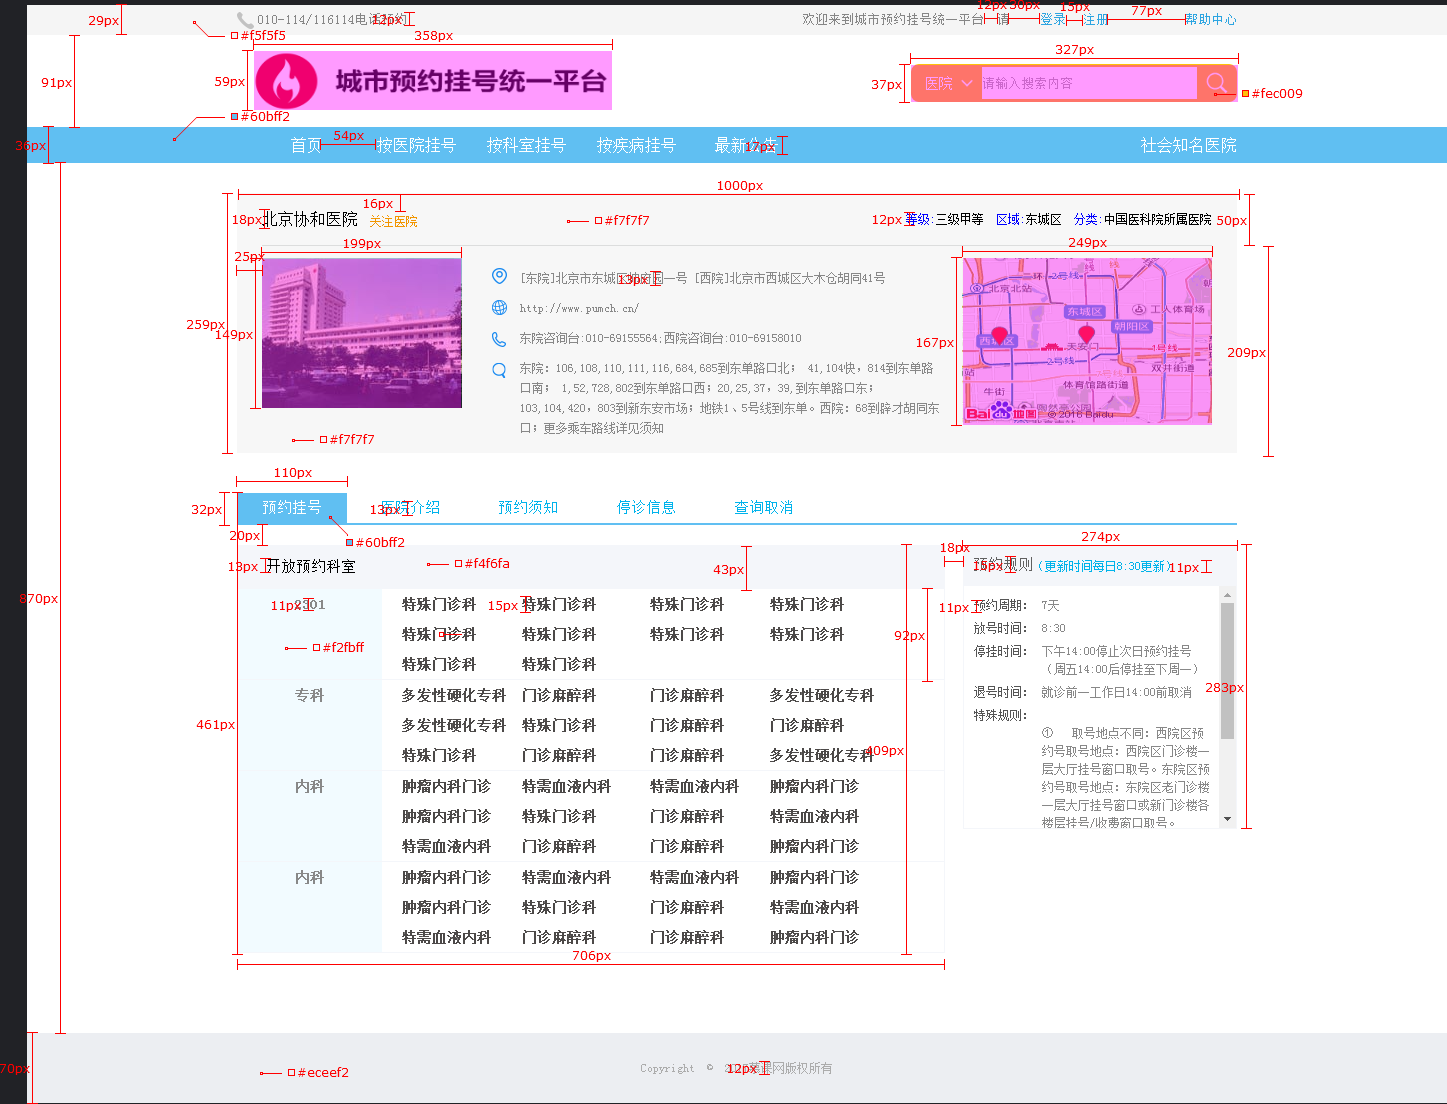
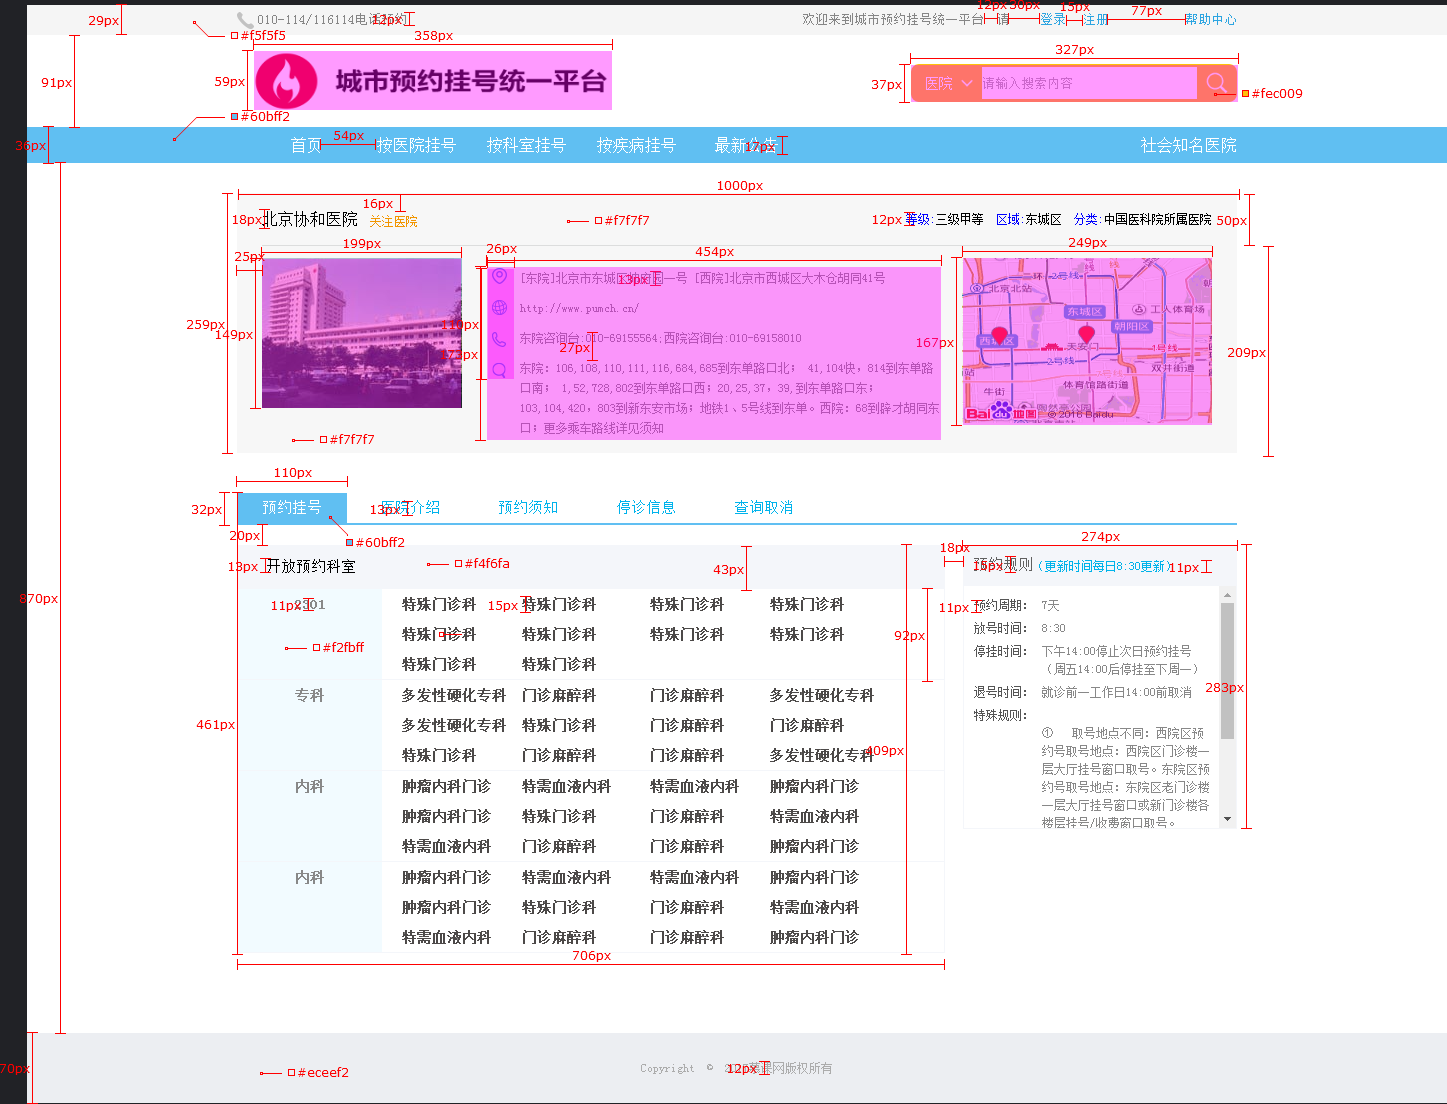
finish base style

Changed region(s): [[0.311, 0.2156, 0.6531, 0.4004]]

diff --git a/index.html b/index.html
@@ -57,20 +57,152 @@
                     <div class="title">
                         <span>北京协和医院</span>
                         <span>关注医院</span>
-                        <span>等级：</span>
+                        <span>等级:</span>
                         <span>三级甲等</span>
-                        <span>区域：</span>
+                        <span>区域:</span>
                         <span>东城区</span>
-                        <span>分类：</span>
+                        <span>分类:</span>
                         <span>中国医科院所属医院</span>
                     </div>
-                    <div class="main"></div>
+                    <div class="main">
+                        <div class="hospitalImg">
+                            <img src="img\hospital-1.jpg" alt="">
+                        </div>
+                        <div class="information">
+                            <div class="location">具体地址：xxxxxx</div>
+                            <div class="url">网址：http://xxxx.com</div>
+                            <div class="number">咨询电话：00000</div>
+                            <div class="route">
+                                具体路线：具体路线具体路线具体路线具体路线具体路线具体路线具体路线具体路线具体路线具体路线具体路线具体路线具体路线具体路线具体路线具体路线具体路线具体路线具体路线具体路线
+                            </div>
+                        </div>
+                        <div class="map">
+                            <img src="img\map-1.png" alt="">
+                        </div>
+                    </div>
                 </div>
             </div>
             <div class="system">
-                <div class="tab"></div>
-                <div class="details"></div>
-                <div class="rule"></div>
+                <div class="tab">
+                    <a href="" class="active">预约挂号</a>
+                    <a href="">医院介绍</a>
+                    <a href="">预约须知</a>
+                    <a href="">停诊信息</a>
+                    <a href="">查询取消</a>
+                </div>
+                <div class="details">
+                    <div class="header">开放预约科室</div>
+                    <div class="department">
+                        <table>
+                            <tr>
+                                <td rowspan="3" class="department-name">2301</td>
+                                <td>特殊门诊科</td>
+                                <td>特殊门诊科</td>
+                                <td>特殊门诊科</td>
+                                <td>特殊门诊科</td>
+                            </tr>
+                            <tr>
+
+                                <td>特殊门诊科</td>
+                                <td>特殊门诊科</td>
+                                <td>特殊门诊科</td>
+                                <td>特殊门诊科</td>
+                            </tr>
+                            <tr class="border">
+
+                                <td>特殊门诊科</td>
+                                <td>特殊门诊科</td>
+                                <td>&nbsp;</td>
+                                <td>&nbsp;</td>
+                            </tr>
+                            <tr>
+                                <td rowspan="3" class="department-name">专科</td>
+                                <td>多发性硬化专科</td>
+                                <td>多发性硬化专科</td>
+                                <td>多发性硬化专科</td>
+                                <td>多发性硬化专科</td>
+                            </tr>
+                            <tr>
+
+                                <td>多发性硬化专科</td>
+                                <td>多发性硬化专科</td>
+                                <td>多发性硬化专科</td>
+                                <td>多发性硬化专科</td>
+                            </tr>
+                            <tr class="border">
+
+                                <td>多发性硬化专科</td>
+                                <td>多发性硬化专科</td>
+                                <td>多发性硬化专科</td>
+                                <td>多发性硬化专科</td>
+                            </tr>
+                            <tr>
+                                <td rowspan="3" class="department-name">内科</td>
+                                <td>肿瘤内科门诊</td>
+                                <td>肿瘤内科门诊</td>
+                                <td>肿瘤内科门诊</td>
+                                <td>肿瘤内科门诊</td>
+                            </tr>
+                            <tr>
+
+                                <td>肿瘤内科门诊</td>
+                                <td>肿瘤内科门诊</td>
+                                <td>肿瘤内科门诊</td>
+                                <td>肿瘤内科门诊</td>
+                            </tr>
+                            <tr class="border">
+
+                                <td>肿瘤内科门诊</td>
+                                <td>肿瘤内科门诊</td>
+                                <td>肿瘤内科门诊</td>
+                                <td>肿瘤内科门诊</td>
+                            </tr>
+                            <tr>
+                                <td rowspan="3" class="department-name">内科</td>
+                                <td>血液内科</td>
+                                <td>血液内科</td>
+                                <td>血液内科</td>
+                                <td>血液内科</td>
+                            </tr>
+                            <tr>
+
+                                <td>血液内科</td>
+                                <td>血液内科</td>
+                                <td>血液内科</td>
+                                <td>血液内科</td>
+                            </tr>
+                            <tr>
+
+                                <td>血液内科</td>
+                                <td>血液内科</td>
+                                <td>血液内科</td>
+                                <td>血液内科</td>
+                            </tr>
+                        </table>
+                    </div>
+                </div>
+                <div class="rule">
+                    <div class="title">
+                        <span>预约规则</span><span>(每日8：30更新)</span>
+                    </div>
+                    <div class="rule-detail">
+                        <div class="period">
+                            <span>预约周期：</span>7天
+                        </div>
+                        <div class="open">
+                            <span>放号时间：</span>8：30
+                        </div>
+                        <div class="close">
+                            <span>停挂时间：</span>下午14：00停止次日预约挂号（周五14：00后停挂至下周一）
+                        </div>
+                        <div class="cancle">
+                            <span>退号时间：</span>就诊前14：00前取消
+                        </div>
+                        <div class="special">
+                            <span>特殊规则：</span>此处为挂号特殊规则此处为挂号特殊规则此处为挂号特殊规则此处为挂号特殊规则此处为挂号特殊规则此处为挂号特殊规则此处为挂号特殊规则此处为挂号特殊规则此处为挂号特殊规则此处为挂号特殊规则此处为挂号特殊规则此处为挂号特殊规则此处为挂号特殊规则此处为挂号特殊规则此处为挂号特殊规则此处为挂号特殊规则
+                        </div>
+                    </div>
+                </div>
             </div>
         </div>
     </div>

diff --git a/css/base.css b/css/base.css
@@ -72,7 +72,10 @@ line-height: 36px;
 .nav .wrap .right a{
   float: right;
 }
-/*content*/
+.nav .wrap a:hover{
+    color: #e1eff7;
+}
+/*content introduce*/
 .content .wrap .introduce .introduce-wrap{
     height: 100%;
     width: 950px;
@@ -91,10 +94,166 @@ border-bottom: 1px solid rgb(196, 192, 192);
     font-size: 12px;
     line-height: 50px;
 }
+.content .wrap .introduce .introduce-wrap .title span:nth-child(2){
+color:#fec009;
+padding-left: 5px;
+}
+
+.content .wrap .introduce .introduce-wrap .title span:nth-child(3),
+.content .wrap .introduce .introduce-wrap .title span:nth-child(5),
+.content .wrap .introduce .introduce-wrap .title span:nth-child(7){
+color:blue;
+padding-left: 10px;
+}
+.content .wrap .introduce .introduce-wrap .title span:nth-child(3){
+    padding-left: 460px;
+    }
 .content .wrap .introduce .introduce-wrap .main{
     height: 209px;
     width: 100%;
+    position: relative;
 }
+.content .wrap .introduce .introduce-wrap .main .hospitalImg{
+    width: 200px;
+    height: 150px;
+    position: absolute;
+    top: 10px;
+}
+.content .wrap .introduce .introduce-wrap .main .hospitalImg img{
+    width: 200px;
+    height: 150px;
+}
+.content .wrap .introduce .introduce-wrap .main .map{
+    width: 249px;
+    height: 167px;
+    position: absolute;
+    right: 0px;
+    top: 10px;
+}
+.content .wrap .introduce .introduce-wrap .main .map img{
+    width: 249px;
+    height: 167px;
+}
+.content .wrap .introduce .introduce-wrap .main .information{
+    position: absolute;
+    top: 15px;
+    left:220px;
+    width: 402px;
+    height: 173px;
+}
+
+.content .wrap .introduce .introduce-wrap .main .information .location ,
+.content .wrap .introduce .introduce-wrap .main .information .url ,
+.content .wrap .introduce .introduce-wrap .main .information .number ,
+.content .wrap .introduce .introduce-wrap .main .information .route {
+background: url(../img/icon-web.png)  no-repeat;
+display: inline-block;
+padding-left: 30px;
+font-size: 13px;
+    line-height: 16px;
+    width: 402px;
+    margin: 8px 0px;
+}
+.content .wrap .introduce .introduce-wrap .main .information .url{
+    background: url(../img/icon-web.png)  0px -22px no-repeat;
+}
+.content .wrap .introduce .introduce-wrap .main .information .number{
+    background: url(../img/icon-web.png)  0px -44px no-repeat;
+}
+.content .wrap .introduce .introduce-wrap .main .information .route{
+    background: url(../img/icon-web.png)  0px -63px no-repeat;
+    height: 16px;
+}
+/*content system*/
+.content .wrap .system .tab{
+    border-bottom: 1px solid #60bff2;
+}
+.content .wrap .system .tab a{
+width: 110px;
+color: #60bff2;
+display: inline-block;
+line-height: 32px;
+text-align: center;
+}
+.content .wrap .system .tab .active{
+    background: #60bff2;
+    color: white;
+}
+.content .wrap .system .details .header{
+    font-size: 18px;
+    height: 43px;
+    line-height: 43px;
+    padding-left: 25px;
+    width: 681px;
+    background-color: #f4f6fa;
+}
+.content .wrap .system .details .department table{
+/* width: 100%;
+height: 100%; */
+
+line-height: 28px;
+border-collapse: collapse;
+}
+.content .wrap .system .details .department table tr .department-name{
+    font-size: 11px;
+    color: gray;
+    text-align: center;
+    vertical-align: top;
+    background-color: #f2fbff;
+    height: 68px;
+    width: 175px;
+    padding-left: 0px;
+    border: 1px solid #f4f6fa;
+}
+.content .wrap .system .details .department table 
+{
+    border: 1px solid #f4f6fa;
+}
+.content .wrap .system .details .department table .border{
+    border-bottom: 1px solid #f4f6fa;
+}
+.content .wrap .system .details .department table tr td{
+    color: black;
+    font-size: 13px;
+    width: 175px;
+    text-align: left;
+    padding-left: 10px;
+    vertical-align: 28px;
+    
+}
+.content .wrap .system .rule .title{
+    text-align: center;
+    line-height: 40px;
+    height: 40px;
+    background: #f4f6fa;
+}
+.content .wrap .system .rule .title span:first-child{
+    font-size: 15px;
+}
+.content .wrap .system .rule .title span:nth-child(2){
+    font-size: 11px;
+    color:#60bff2;
+}
+.content .wrap .system .rule .rule-detail{
+    overflow-y: scroll;
+    width: 274px;
+    height:243px;
+}
+.content .wrap .system .rule .rule-detail div{
+    margin-left: 15px;
+    line-height: 30px;
+    font-size: 11px;
+    color: gray;
+    
+}
+
+.content .wrap .system .rule .rule-detail div span{
+    display: inline-block;
+    color: black;
+    font-size: 13px;
+}
+
+
 /*footer*/
 .footer span{
     color: gray;

diff --git a/css/layout.css b/css/layout.css
@@ -31,7 +31,7 @@
 
 .content {
     width: 100%;
-    height: 870px;
+    /* height: 870px; */
 
 }
 
@@ -50,22 +50,23 @@
 
 .content .wrap .system .tab {
     height: 32px;
-    background-color: #60bff2;
+    /* background-color: #60bff2; */
 }
 
 .content .wrap .system .details {
     width: 706px;
     height: 409px;
-    background-color: #f4f6fa;
+    /* background-color: #f4f6fa; */
     position: absolute;
     left: 0;
     bottom: 0px;
 }
 
+
 .content .wrap .system .rule {
     width: 274px;
     height: 283px;
-    background-color: #f4f6fa;
+    /* background-color: #f4f6fa; */
     position: absolute;
     right: 0;
     top: 52px;
@@ -75,4 +76,5 @@
     width: 100%;
     height: 70px;
     background: #eceef2;
+    margin-top: 80px;
 }
